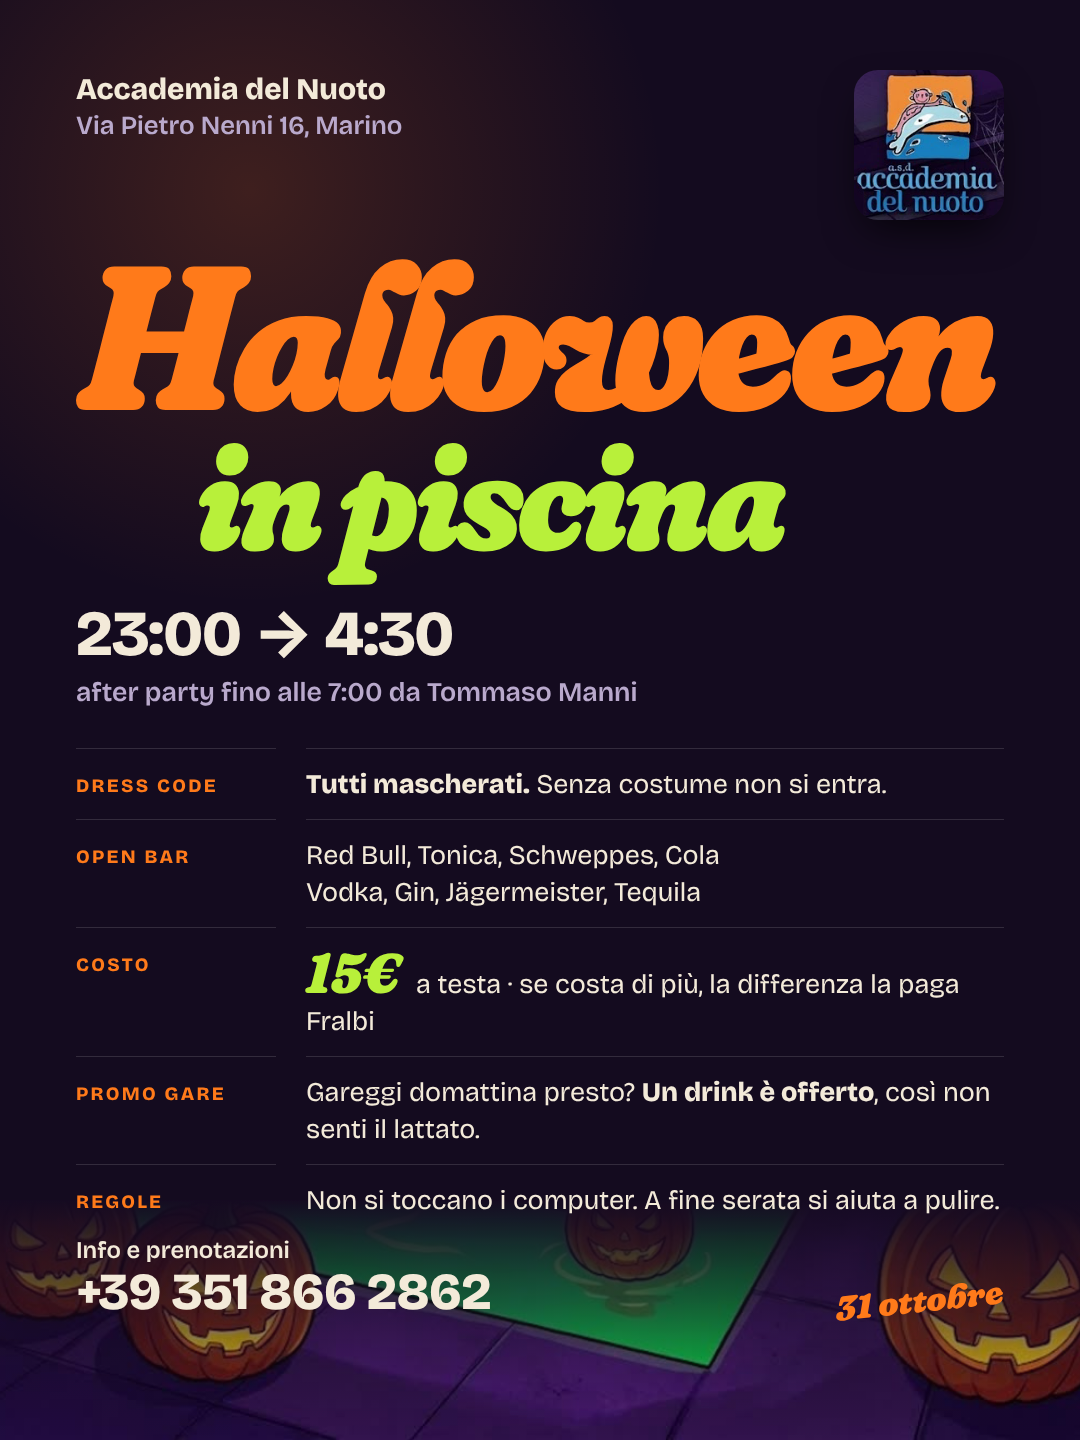
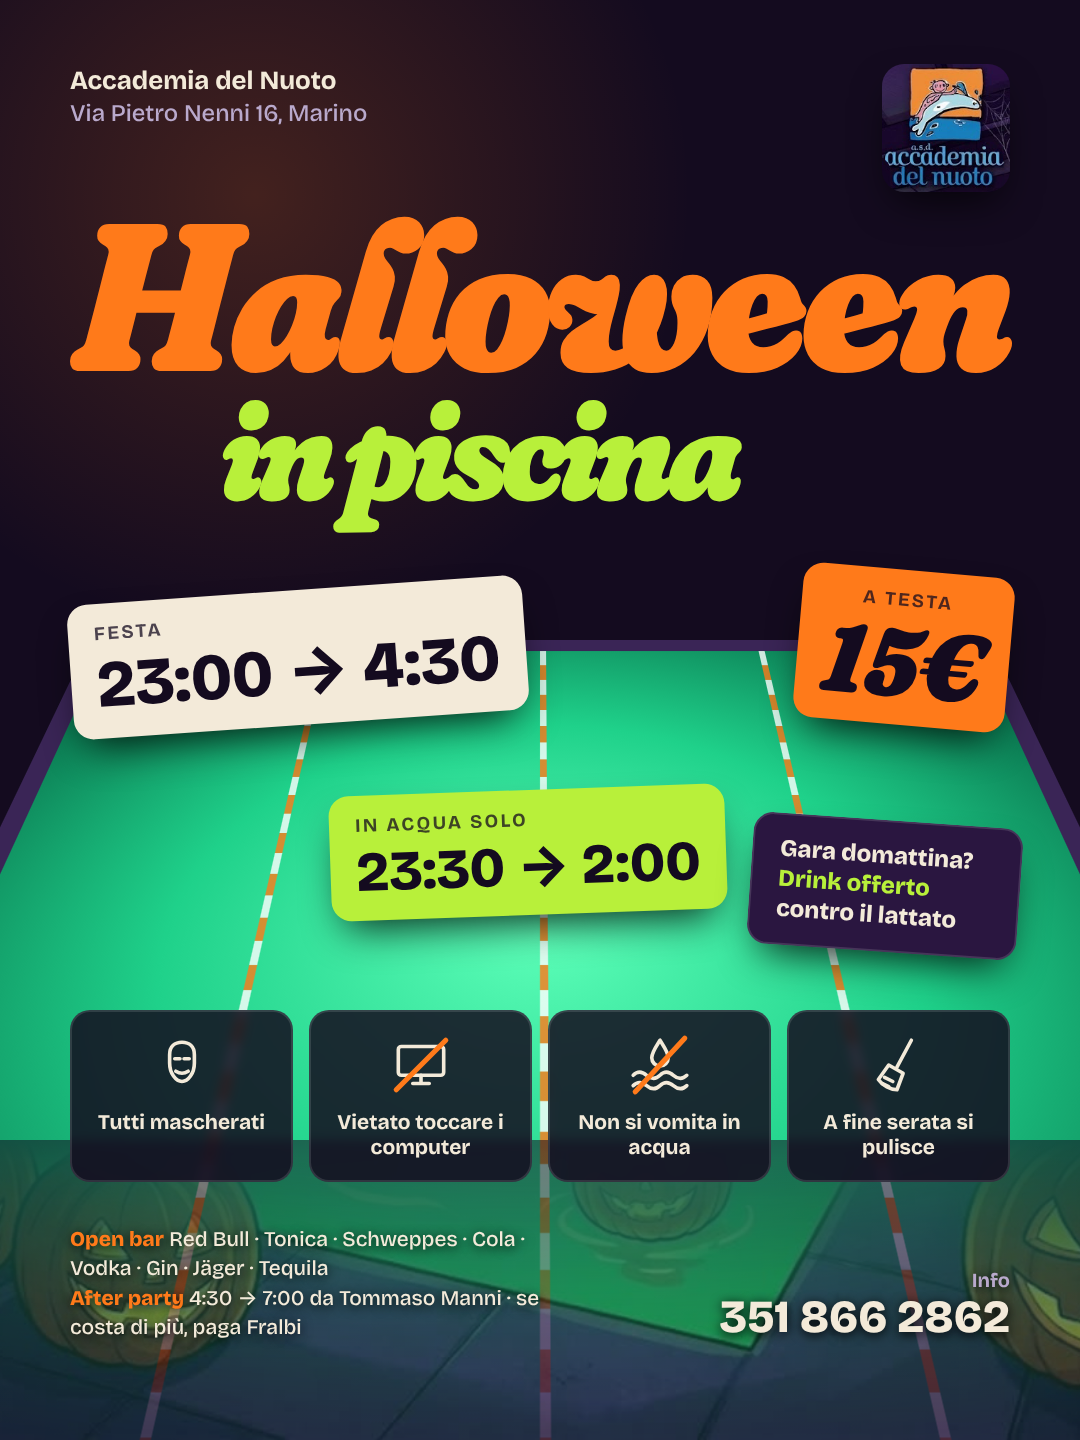
Volantino Halloween: versione più grafica con orari dell'acqua e nuove regole
Claude-Session: https://claude.ai/code/session_01Xky6Q7DuqUSq6nctH9Hrpt

diff --git a/volantino/volantino.html b/volantino/volantino.html
@@ -1,50 +1,76 @@
 <!doctype html><meta charset="utf-8">
-<link rel="stylesheet" href="https://fonts.googleapis.com/css2?family=Fraunces:ital,opsz,wght,SOFT,WONK@1,9..144,900,100,1&family=Bricolage+Grotesque:opsz,wght@12..96,400;12..96,600;12..96,800&display=swap">
+<link rel="stylesheet" href="https://fonts.googleapis.com/css2?family=Fraunces:ital,opsz,wght,SOFT,WONK@1,9..144,900,100,1&family=Bricolage+Grotesque:opsz,wght@12..96,500;12..96,700;12..96,800&display=swap">
 <style>
-/* Locandina 1080x1440: titolo enorme in serif "molle" arancio zucca, info come un orario da bacheca */
-:root{--night:#140b1f;--plum:#2a1640;--pump:#ff7a1a;--slime:#b8f03a;--bone:#f3ead9;--dim:#b9a9cc;--line:#ffffff22;
+/* Locandina 1080x1440: la vasca vista dall'alto come grafica principale, informazioni come adesivi, regole come pittogrammi */
+:root{--night:#140b1f;--pump:#ff7a1a;--slime:#b8f03a;--pool:#1fd18a;--bone:#f3ead9;--dim:#b9a9cc;--plum:#2a1640;
 --display:"Fraunces",Georgia,serif;--body:"Bricolage Grotesque",system-ui,sans-serif}
 *{box-sizing:border-box}
 html,body{margin:0;width:1080px;height:1440px;overflow:hidden;background:var(--night);color:var(--bone);font-family:var(--body)}
-.bg{position:absolute;left:0;right:0;bottom:0;height:240px;background:url(bg.jpg) center bottom/cover;filter:saturate(1.15)}
-.bg::after{content:"";position:absolute;inset:0;background:linear-gradient(var(--night) 0%,#140b1f99 45%,#140b1f00)}
-.glow{position:absolute;left:-200px;top:-260px;width:900px;height:900px;border-radius:50%;background:radial-gradient(#ff7a1a2e,transparent 65%)}
-.wrap{position:relative;padding:70px 76px 0;height:100%;display:flex;flex-direction:column}
-header{display:flex;justify-content:space-between;align-items:flex-start;gap:30px}
-.where{font:600 26px/1.3 var(--body);color:var(--dim);margin:0}
-.where b{color:var(--bone);font-weight:800;display:block;font-size:30px}
-.logo{width:150px;height:150px;border-radius:24px;object-fit:cover;flex:none;box-shadow:0 18px 40px -12px #000c}
-h1{margin:34px 0 0;font:900 205px/.8 var(--display);font-style:italic;font-variation-settings:"SOFT" 100,"WONK" 1,"opsz" 144;color:var(--pump);letter-spacing:-.035em}
-h1 span{display:block;color:var(--slime);font-size:150px;letter-spacing:-.03em;margin-top:18px;padding-left:120px}
-.time{display:grid;gap:10px;white-space:nowrap;margin:46px 0 40px;font:800 64px/1 var(--body);letter-spacing:-.02em}
-.time small{font:600 27px var(--body);color:var(--dim);letter-spacing:0}
-dl{margin:0;display:grid;grid-template-columns:200px 1fr;column-gap:30px;font-size:27px;line-height:1.35}
-dt,dd{padding:17px 0;border-top:1px solid var(--line);margin:0}
-dt{font-weight:800;color:var(--pump);text-transform:uppercase;font-size:19px;letter-spacing:.12em;padding-top:24px}
-dd b{font-weight:800}
-.price{font:900 italic 56px/1 var(--display);color:var(--slime);font-variation-settings:"SOFT" 100,"opsz" 144;margin-right:10px}
-footer{margin-top:auto;padding-bottom:290px;display:flex;justify-content:space-between;align-items:flex-end}
-.call{font:600 24px var(--body);color:var(--bone)}
-.call b{display:block;font:800 52px/1.1 var(--body);letter-spacing:-.01em;color:var(--bone)}
-.tag{font:900 italic 34px var(--display);color:var(--pump);transform:rotate(-6deg);font-variation-settings:"SOFT" 100,"WONK" 1}
+.glow{position:absolute;left:-220px;top:-280px;width:950px;height:950px;border-radius:50%;background:radial-gradient(#ff7a1a33,transparent 65%)}
+
+/* La vasca */
+.pool{position:absolute;left:50%;top:640px;width:900px;height:900px;margin-left:-450px;transform:perspective(1200px) rotateX(52deg);transform-origin:top center;
+  background:radial-gradient(60% 50% at 50% 40%,#5dffb9,var(--pool) 55%,#0b7a52);border:18px solid #3a2556;border-radius:18px;
+  box-shadow:0 0 120px 20px #1fd18a55;-webkit-mask-image:linear-gradient(#000 60%,transparent 92%);mask-image:linear-gradient(#000 60%,transparent 92%)}
+.pool i{position:absolute;top:0;bottom:0;width:6px;background:repeating-linear-gradient(#fff 0 22px,#ff7a1a 22px 44px);opacity:.8}
+.pool i:nth-child(1){left:25%}.pool i:nth-child(2){left:50%}.pool i:nth-child(3){left:75%}
+.pumpkins{position:absolute;left:0;right:0;bottom:0;height:300px;opacity:.55;background:url(bg.jpg) center bottom/cover}
+.pumpkins::after{content:"";position:absolute;inset:0;background:linear-gradient(var(--night),#140b1f66 50%,#140b1f00)}
+
+.wrap{position:relative;padding:64px 70px;height:100%}
+header{display:flex;justify-content:space-between;align-items:flex-start}
+.where{font:700 26px/1.3 var(--body);margin:0}
+.where span{display:block;color:var(--dim);font-weight:500;font-size:24px}
+.logo{width:128px;height:128px;border-radius:22px;object-fit:cover;box-shadow:0 18px 40px -12px #000c}
+h1{margin:20px 0 0;font:900 210px/.8 var(--display);font-style:italic;font-variation-settings:"SOFT" 100,"WONK" 1,"opsz" 144;color:var(--pump);letter-spacing:-.035em}
+h1 span{display:block;color:var(--slime);font-size:140px;margin-top:14px;padding-left:150px}
+
+/* Adesivi */
+.st{position:absolute;padding:18px 26px 20px;border-radius:20px;font-weight:800;box-shadow:0 20px 40px -14px #000d;line-height:1}
+.st small{display:block;font:700 19px var(--body);text-transform:uppercase;letter-spacing:.12em;margin-bottom:8px;opacity:.75}
+.s1{left:70px;top:590px;background:var(--bone);color:var(--night);font-size:66px;transform:rotate(-4deg)}
+.s2{right:70px;top:570px;background:var(--pump);color:var(--night);transform:rotate(5deg);text-align:center}
+.s2 b{font:900 italic 96px/0.9 var(--display);font-variation-settings:"SOFT" 100,"opsz" 144}
+.s3{left:330px;top:790px;background:var(--slime);color:var(--night);font-size:56px;transform:rotate(-2deg)}
+.s4{right:60px;top:820px;background:var(--plum);color:var(--bone);font-size:24px;line-height:1.25;max-width:270px;transform:rotate(4deg);border:2px solid #ffffff22}
+.s4 b{color:var(--slime)}
+
+/* Regole a pittogrammi */
+.rules{position:absolute;left:70px;right:70px;top:1010px;display:grid;grid-template-columns:repeat(4,1fr);gap:16px}
+.rule{background:#140b1fd9;border:2px solid #ffffff1f;border-radius:20px;padding:20px 14px;text-align:center;font:700 21px/1.2 var(--body);backdrop-filter:blur(6px)}
+.rule svg{width:66px;height:66px;display:block;margin:0 auto 12px;stroke:var(--bone);fill:none;stroke-width:3.5;stroke-linecap:round;stroke-linejoin:round}
+.rule .no{stroke:var(--pump);stroke-width:5}
+
+.info{text-shadow:0 2px 12px #000;position:absolute;left:70px;right:70px;top:1225px;display:flex;justify-content:space-between;align-items:flex-end}
+.bar{font:500 21px/1.4 var(--body);color:var(--bone);max-width:520px}
+.bar b{color:var(--pump);font-weight:800}
+.call{text-align:right;font:700 20px var(--body);color:var(--dim)}
+.call b{display:block;font:800 46px/1.1 var(--body);color:var(--bone)}
 </style>
-<div class="glow"></div><div class="bg"></div>
+<div class="glow"></div>
+<div class="pool"><i></i><i></i><i></i></div>
+<div class="pumpkins"></div>
 <div class="wrap">
   <header>
-    <p class="where"><b>Accademia del Nuoto</b>Via Pietro Nenni 16, Marino</p>
+    <p class="where">Accademia del Nuoto<span>Via Pietro Nenni 16, Marino</span></p>
     <img class="logo" src="logo.png" alt="">
   </header>
   <h1>Halloween<span>in piscina</span></h1>
-  <div class="time">23:00 → 4:30 <small>after party fino alle 7:00 da Tommaso Manni</small></div>
-  <dl>
-    <dt>Dress code</dt><dd><b>Tutti mascherati.</b> Senza costume non si entra.</dd>
-    <dt>Open bar</dt><dd>Red Bull, Tonica, Schweppes, Cola<br>Vodka, Gin, Jägermeister, Tequila</dd>
-    <dt>Costo</dt><dd><span class="price">15€</span> a testa · se costa di più, la differenza la paga Fralbi</dd>
-    <dt>Promo gare</dt><dd>Gareggi domattina presto? <b>Un drink è offerto</b>, così non senti il lattato.</dd>
-    <dt>Regole</dt><dd>Non si toccano i computer. A fine serata si aiuta a pulire.</dd>
-  </dl>
-  <footer>
-    <div class="call">Info e prenotazioni<b>+39 351 866 2862</b></div>
-    <div class="tag">31 ottobre</div>
-  </footer>
+</div>
+
+<div class="st s1"><small>Festa</small>23:00 → 4:30</div>
+<div class="st s2"><small>A testa</small><b>15€</b></div>
+<div class="st s3"><small>In acqua solo</small>23:30 → 2:00</div>
+<div class="st s4">Gara domattina? <b>Drink offerto</b> contro il lattato</div>
+
+<div class="rules">
+  <div class="rule"><svg viewBox="0 0 64 64"><path d="M20 22c0-8 5-12 12-12s12 4 12 12v8c0 10-6 18-12 18s-12-8-12-18z"/><path d="M25 26h5M34 26h5"/><path d="M26 38q6 4 12 0"/></svg>Tutti mascherati</div>
+  <div class="rule"><svg viewBox="0 0 64 64"><rect x="10" y="14" width="44" height="28" rx="3"/><path d="M24 50h16M32 42v8"/><path class="no" d="M8 56 56 8"/></svg>Vietato toccare i computer</div>
+  <div class="rule"><svg viewBox="0 0 64 64"><path d="M6 42q6-6 13 0t13 0 13 0 13 0"/><path d="M6 52q6-6 13 0t13 0 13 0 13 0"/><path d="M32 8c-5 8-8 12-8 17a8 8 0 0 0 16 0c0-5-3-9-8-17z"/><path class="no" d="M8 58 56 6"/></svg>Non si vomita in acqua</div>
+  <div class="rule"><svg viewBox="0 0 64 64"><path d="M44 8 30 34"/><path d="M22 32l14 8-6 16c-6 0-14-4-18-10z"/><path d="M18 44l8 4M16 50l6 3"/></svg>A fine serata si pulisce</div>
+</div>
+
+<div class="info">
+  <div class="bar"><b>Open bar</b> Red Bull · Tonica · Schweppes · Cola · Vodka · Gin · Jäger · Tequila<br><b>After party</b> 4:30 → 7:00 da Tommaso Manni · se costa di più, paga Fralbi</div>
+  <div class="call">Info<b>351 866 2862</b></div>
 </div>
